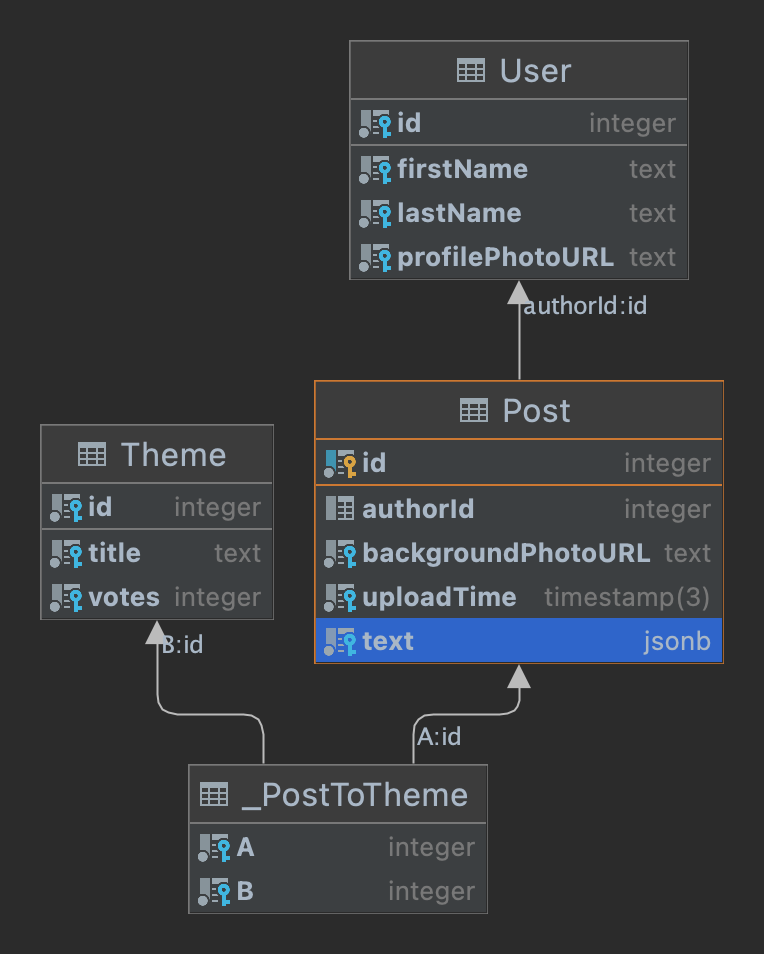
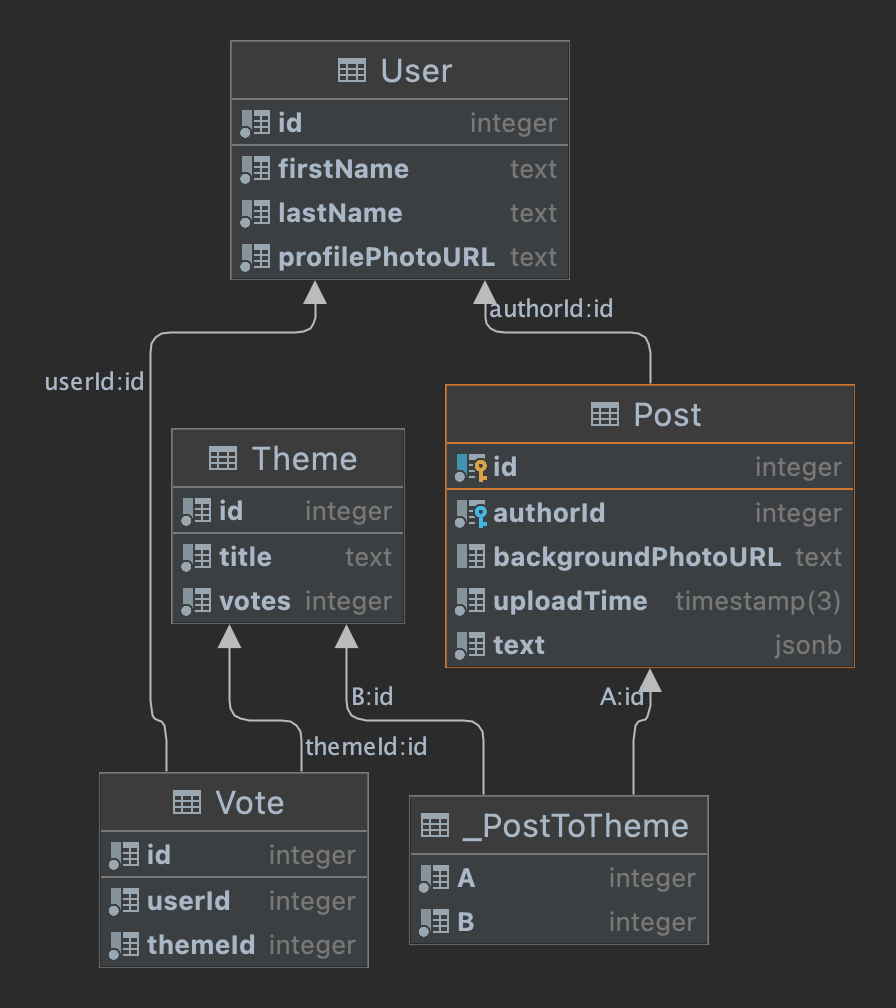
Fixed README. Added Swagger Auth decorators.

Changed region(s): [[0.0602, 0.0304, 0.9634, 0.9727], [0.7526, 0.0912, 0.9031, 0.1824]]

diff --git a/src/post/post.controller.ts b/src/post/post.controller.ts
@@ -11,7 +11,13 @@ import {
 import { PostService } from "./post.service";
 import { CreatePostDto } from "./dto/create-post.dto";
 import { UpdatePostDto } from "./dto/update-post.dto";
-import { ApiBody, ApiOperation, ApiResponse, ApiTags } from "@nestjs/swagger";
+import {
+  ApiBearerAuth,
+  ApiBody,
+  ApiOperation,
+  ApiResponse,
+  ApiTags,
+} from "@nestjs/swagger";
 import { FileUploadDto } from "./dto/file-upload-dto";
 
 @ApiTags("posts")
@@ -19,8 +25,9 @@ import { FileUploadDto } from "./dto/file-upload-dto";
 export class PostController {
   constructor(private readonly postService: PostService) {}
 
+  @ApiBearerAuth()
   @ApiOperation({ summary: "Create new post" })
-  @Post("create")
+  @Post("")
   create(@Body() createPostDto: CreatePostDto) {
     return this.postService.create(createPostDto);
   }
@@ -37,12 +44,14 @@ export class PostController {
     return this.postService.findOne(+id);
   }
 
+  @ApiBearerAuth()
   @ApiOperation({ summary: "Modify post with certain id" })
   @Patch(":id")
   update(@Param("id") id: string, @Body() updatePostDto: UpdatePostDto) {
     return this.postService.update(+id, updatePostDto);
   }
 
+  @ApiBearerAuth()
   @ApiOperation({ summary: "Upload an image for the post" })
   @ApiBody({
     description: "List of cats",
@@ -53,6 +62,7 @@ export class PostController {
     return this.postService.findAll();
   }
 
+  @ApiBearerAuth()
   @ApiOperation({ summary: "Remove post with certain id" })
   @Delete(":id")
   remove(@Param("id") id: string) {

diff --git a/public/css/output.css b/public/css/output.css
@@ -935,6 +935,10 @@ Ensure the default browser behavior of the `hidden` attribute.
   flex-direction: row;
 }
 
+.flex-row-reverse {
+  flex-direction: row-reverse;
+}
+
 .flex-col {
   flex-direction: column;
 }
@@ -982,6 +986,10 @@ Ensure the default browser behavior of the `hidden` attribute.
 
 .text-center {
   text-align: center;
+}
+
+.text-right {
+  text-align: right;
 }
 
 .font-gemunu {

diff --git a/README.md b/README.md
@@ -1,3 +1,18 @@
-# DB confing
+# ideas
 
+## About
+
+This project is about practicing writing. At the begining of each week users are voting for the theme. Top 3 themes are selected. Your goal is to write an article or a story to combine all 3 themes.
+
+## Technical solutions
+
+Text editing is done with `editor.js` library.  
+Authentication is done with telegram auth.
+
+## DB confing
+
+User –– user entity  
+Post –– user's text  
+Vote –– user's vote for the theme  
+Theme –– theme for the posts  
 ![DB structure](readmeResouces/Post.png)
